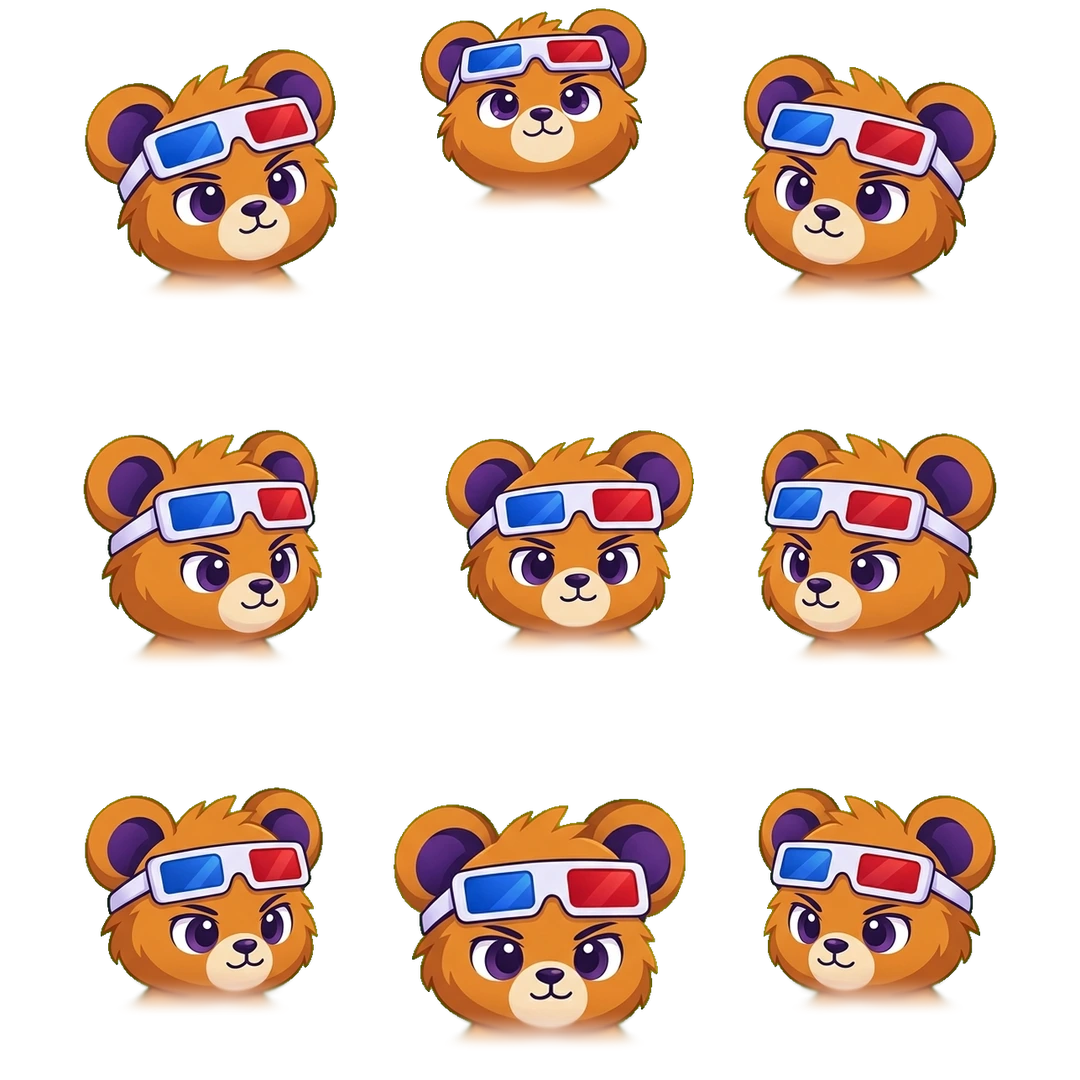
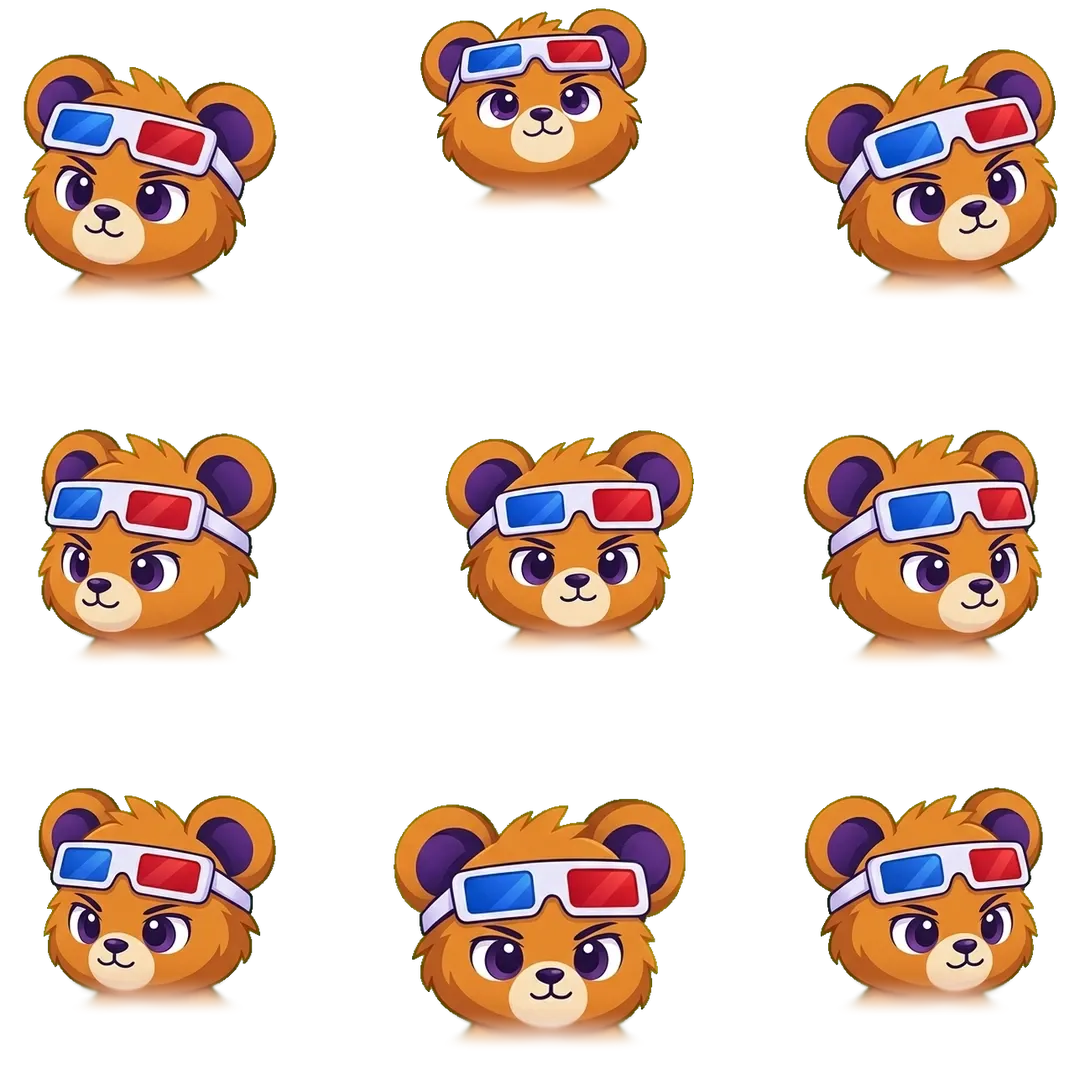
fix(mascot): un-mirror directional columns, fix pointer tracking, and stop boop propagation

diff --git a/frontend/next-storefront/src/components/Mascot.tsx b/frontend/next-storefront/src/components/Mascot.tsx
@@ -44,7 +44,6 @@ const CLOCKWISE: MascotDirection[] = [
 ];
 const SECTOR = (Math.PI * 2) / CLOCKWISE.length;
 const HYSTERESIS = 0.12;
-const DEAD_ZONE = 70;
 const PAYOFFS: MascotReaction[] = ["heart", "sparkle", "delighted"];
 const BOOP_PAYOFF = 120;
 const BOOP_END = 560;
@@ -151,12 +150,11 @@ export function Mascot({
     idleTimerRef.current = setTimeout(sleep, idleMs);
   }, [idleMs, sleep]);
 
-  // Head tracking (fine pointers only) + idle doze-off
+  // Head tracking (mouse & fine pointers) + idle doze-off
   useEffect(() => {
-    if (!window.matchMedia("(hover: hover) and (pointer: fine)").matches) return;
-
     let sector = -1;
     let pointer: { x: number; y: number } | null = null;
+    const deadZone = Math.max(18, Math.min(32, size * 0.45));
 
     const aim = () => {
       const button = buttonRef.current;
@@ -164,7 +162,7 @@ export function Mascot({
       const box = button.getBoundingClientRect();
       const dx = pointer.x - (box.left + box.width / 2);
       const dy = pointer.y - (box.top + box.height / 2);
-      if (Math.hypot(dx, dy) < DEAD_ZONE) {
+      if (Math.hypot(dx, dy) < deadZone) {
         sector = -1;
         setDirection("center");
         return;
@@ -179,6 +177,7 @@ export function Mascot({
     };
 
     const onPointerMove = (event: PointerEvent) => {
+      if (event.pointerType === "touch") return;
       pointer = { x: event.clientX, y: event.clientY };
       wake();
       armIdleTimer();
@@ -192,7 +191,7 @@ export function Mascot({
       window.removeEventListener("pointermove", onPointerMove);
       if (idleTimerRef.current) clearTimeout(idleTimerRef.current);
     };
-  }, [armIdleTimer, wake]);
+  }, [armIdleTimer, size, wake]);
 
   useEffect(() => {
     return () => {
@@ -201,7 +200,8 @@ export function Mascot({
     };
   }, []);
 
-  const boop = () => {
+  const boop = (e?: React.MouseEvent) => {
+    e?.stopPropagation();
     const now = Date.now();
     const boops = boopsRef.current;
     const isDizzy = now - boops.at < DIZZY_WINDOW && boops.count + 1 >= DIZZY_AFTER;
